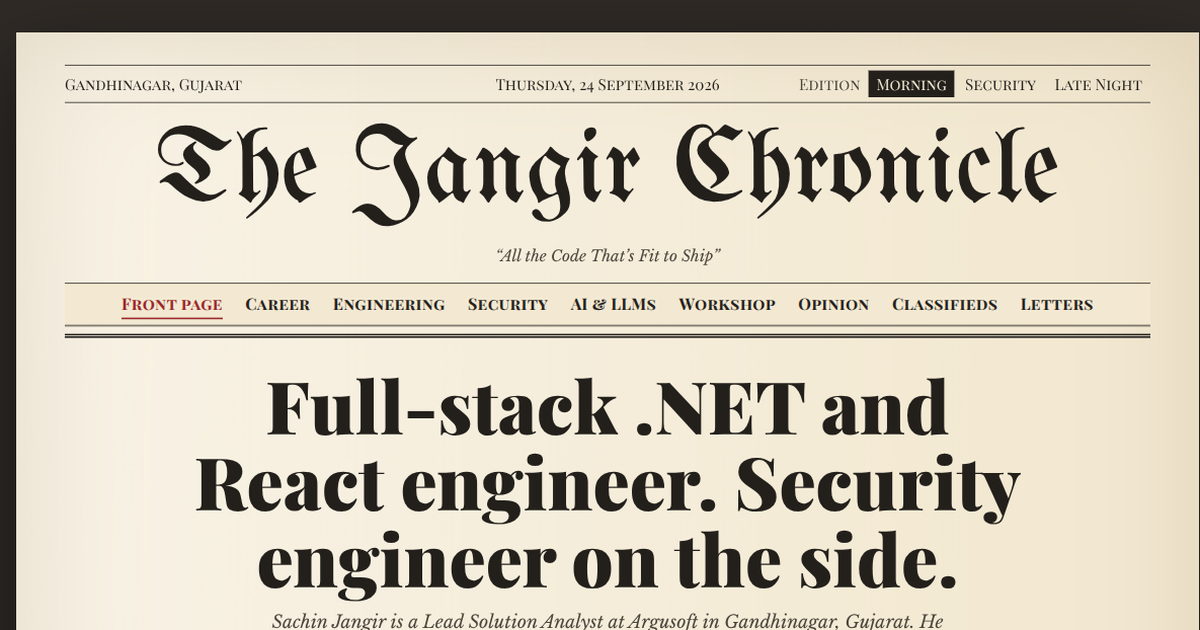
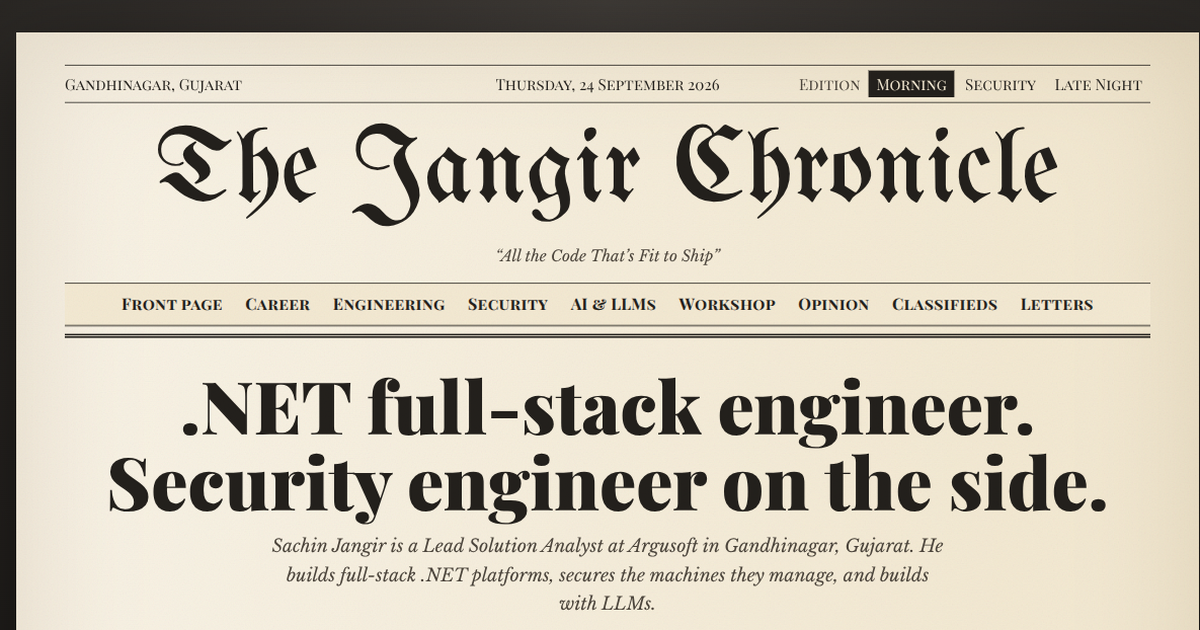
Updated the skills section

Changed region(s): [[0.0925, 0.6032, 0.925, 1.0], [0.0925, 0.4524, 0.185, 0.5127]]

diff --git a/index.html b/index.html
@@ -4,10 +4,10 @@
   <meta charset="UTF-8" />
   <meta name="viewport" content="width=device-width, initial-scale=1.0" />
   <title>The Jangir Chronicle: Sachin Jangir, full-stack .NET and security engineer</title>
-  <meta name="description" content="Sachin Jangir is a Lead Solution Analyst at Argusoft in Gandhinagar. He builds .NET and React platforms, secures the machines they manage, and builds with LLMs." />
+  <meta name="description" content="Sachin Jangir is a Lead Solution Analyst at Argusoft in Gandhinagar. He builds full-stack .NET platforms, secures the machines they manage, and builds with LLMs." />
   <meta property="og:type" content="website" />
   <meta property="og:title" content="The Jangir Chronicle: Sachin Jangir" />
-  <meta property="og:description" content="Full-stack .NET and React engineer. Security engineer on the side." />
+  <meta property="og:description" content=".NET full-stack engineer. Security engineer on the side." />
   <link rel="canonical" href="https://shenlong21.github.io/" />
   <meta property="og:url" content="https://shenlong21.github.io/" />
   <meta property="og:image" content="https://shenlong21.github.io/assets/og.png" />
@@ -83,8 +83,8 @@
     <main class="edition">
       <!-- ============ FRONT PAGE ============ -->
       <section id="front" class="front">
-        <h1 class="headline headline--huge">Full-stack .NET and React engineer. Security engineer on the side.</h1>
-        <p class="deck">Sachin Jangir is a Lead Solution Analyst at Argusoft in Gandhinagar, Gujarat. He builds .NET and React platforms, secures the machines they manage, and builds with LLMs.</p>
+        <h1 class="headline headline--huge">.NET full-stack engineer. Security engineer on the side.</h1>
+        <p class="deck">Sachin Jangir is a Lead Solution Analyst at Argusoft in Gandhinagar, Gujarat. He builds full-stack .NET platforms, secures the machines they manage, and builds with LLMs.</p>
 
         <div class="front__grid">
           <figure class="photo">
@@ -97,7 +97,7 @@
           <article class="lead" data-for="morning night">
             <h2 class="lead__title">From intern to Lead Solution Analyst, with two promotions on the way</h2>
             <p><span class="dateline">Gandhinagar.</span> Sachin Jangir joined Argusoft as an intern in January 2022. More than four years and two promotions later, he is a Lead Solution Analyst on Pramaan, the company’s compliance and device-management platform, used by 350+ employees across 320 machines.</p>
-            <p>He designed Pramaan’s original architecture: a CQRS/MediatR backend on .NET Core with a React 18 and TypeScript frontend. He built most of its major features himself, schema to UI, including software allow-listing, a time-boxed OTP system and drift tracking with live output over SignalR.</p>
+            <p>He designed Pramaan’s original architecture, a CQRS/MediatR backend on .NET Core, and built most of its major features himself, schema to UI, including software allow-listing, a time-boxed OTP system and drift tracking with live output over SignalR.</p>
             <p>Before Pramaan, he spent 2.5 years on a World Health Organization project serving ~150 users in 5 countries, growing from full-stack developer to its primary maintainer.</p>
             <a class="button" href="#career">Continue on <span class="js-page-of" data-target="career">page 2</span></a>
           </article>
@@ -167,7 +167,7 @@
         <header class="section-head">
           <span class="section-head__page">Page 3</span>
           <h2 class="headline">Engineering</h2>
-          <p class="deck">A company-wide platform on .NET Core and React, and a WHO project before it.</p>
+          <p class="deck">A company-wide platform on .NET Core, and a WHO project before it.</p>
         </header>
 
         <div class="engineering__grid">
@@ -175,7 +175,7 @@
             <h3 class="story__title">Pramaan keeps 320 machines in line with security policy</h3>
             <div class="story__body">
               <p class="dropcap">Pramaan is Argusoft’s internal Security Configuration Assessment and Mobile Device Management platform. It keeps the company’s machines compliant with CIS benchmarks, and lets the SecOps team manage software installs, watch for compliance drift and act on incidents. It is used by 350+ employees.</p>
-              <p>Sachin designed its original architecture: a CQRS/MediatR backend on .NET Core, a React 18 and TypeScript frontend, and real-time updates over SignalR. He later moved to other work, and has since come back to build on it.</p>
+              <p>Sachin designed its original architecture: a CQRS/MediatR backend on .NET Core with real-time updates over SignalR. He later moved to other work, and has since come back to build on it.</p>
               <p>His drift-tracking engine, built on EF Core, shows engineers compliance runs across all 320 machines as they happen, with a terminal-style live view built on SignalR and xterm.js. It replaced manual CIS-score audits.</p>
             </div>
           </article>
@@ -421,7 +421,7 @@
         <div class="ads">
           <div class="ad ad--wide">
             <h3>Primary stack, daily use</h3>
-            <p>C#, .NET Core and ASP.NET Core (~4 years). CQRS and MediatR. Entity Framework Core and LINQ. React 18 with TypeScript (2 years). Angular with TypeScript (2 years). SignalR and WebSockets. Docker (3 years). System design, REST API design, SOLID and design patterns.</p>
+            <p>C#, .NET Core and ASP.NET Core (~4 years). CQRS and MediatR. Entity Framework Core and LINQ. Angular with TypeScript (2 years). SignalR and WebSockets. Docker (3 years). System design, REST API design, SOLID and design patterns.</p>
           </div>
           <div class="ad">
             <h3>Security engineering</h3>

diff --git a/CLAUDE.md b/CLAUDE.md
@@ -4,7 +4,7 @@ This file provides guidance to Claude Code (claude.ai/code) when working with co
 
 ## What this is
 
-Personal portfolio for Sachin Jangir (full-stack .NET/React engineer with a security-engineering specialty), styled as a vintage broadsheet newspaper: "The Jangir Chronicle". Plain static site — `index.html`, `styles.css`, `script.js`, `avatar.js` — no framework, no build step. External dependencies: Google Fonts, and three.js 0.170 from jsDelivr (via the import map in `index.html`, only for the 3D portrait).
+Personal portfolio for Sachin Jangir (.NET full-stack engineer with a security-engineering specialty), styled as a vintage broadsheet newspaper: "The Jangir Chronicle". Plain static site — `index.html`, `styles.css`, `script.js`, `avatar.js` — no framework, no build step. External dependencies: Google Fonts, and three.js 0.170 from jsDelivr (via the import map in `index.html`, only for the 3D portrait).
 
 ## Running
 
@@ -27,6 +27,7 @@ All copy on the site must come from this brief. It is fact-checked, and its cons
 - Disclose AI-assisted development where the brief says it applies.
 - Don't claim shared or other people's work (Chakra plugins, ClamAV integration, mTLS infra, etc.), and don't feature the GitHub repos listed in §7.
 - No LeetCode numbers and no LeetCode profile link.
+- Don't mention React anywhere on the site (§13): AI writes most of his React code. Position him as a .NET full-stack engineer.
 - Location is Gandhinagar, Gujarat. The site should lead with the full-stack story, with a clearly signposted security section and a visible AI/LLM section (§1).
 
 ## Architecture
